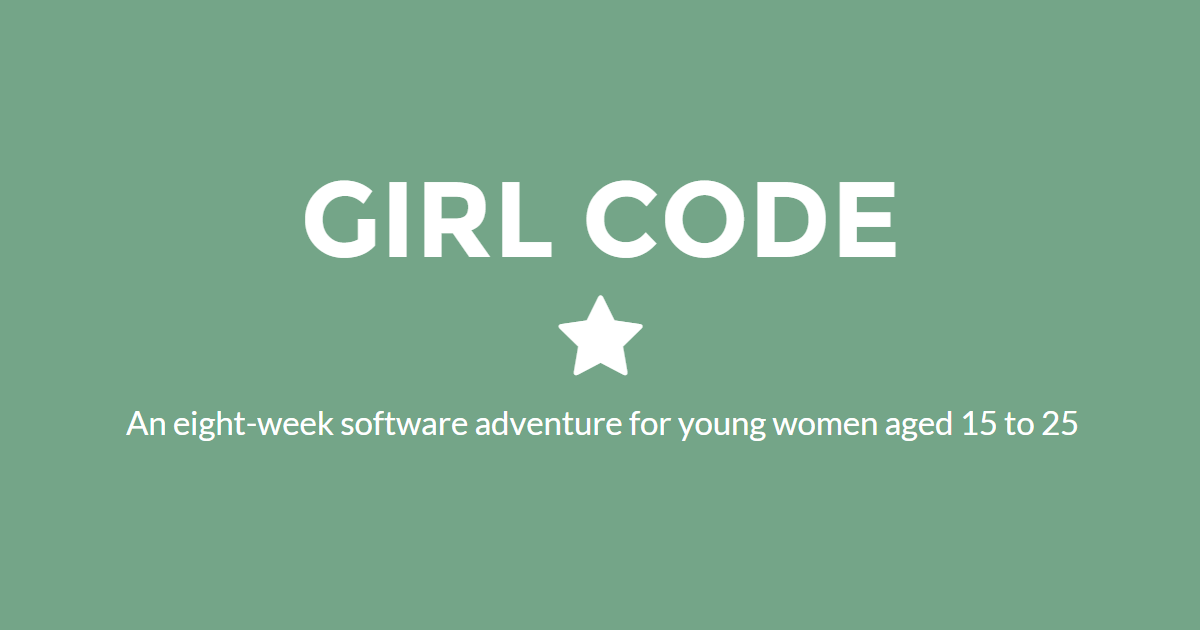
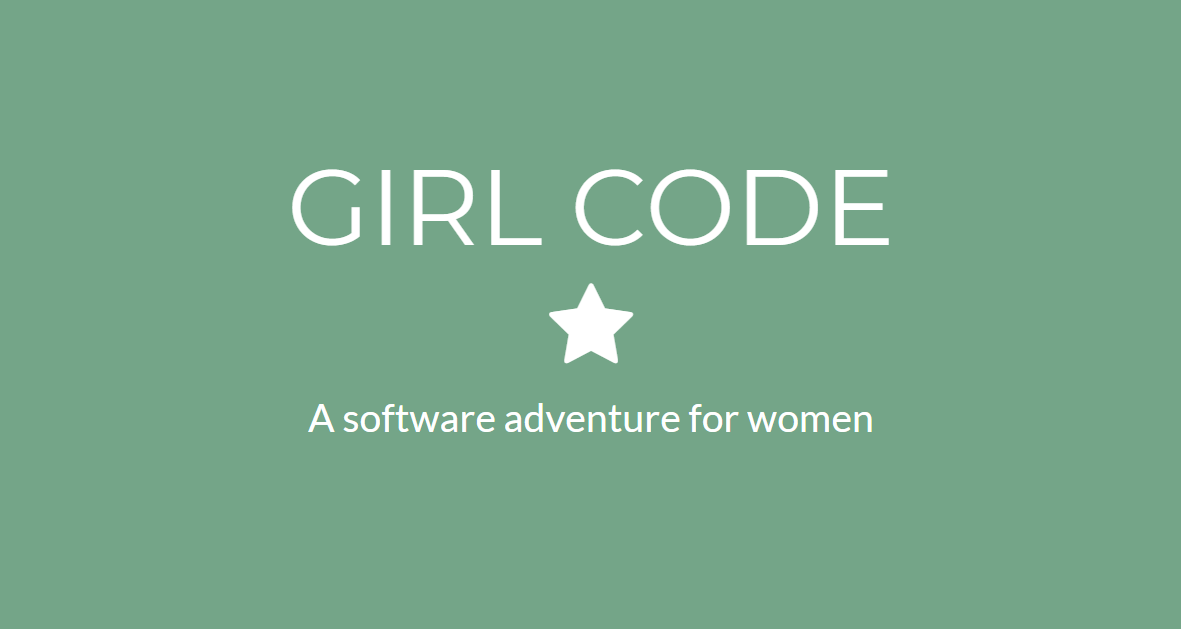
fix facebook image with new age range

diff --git a/index.html b/index.html
@@ -12,7 +12,7 @@
   <meta property="og:title" content="Girl Code">
   <meta property="og:type" content="website">
 
-  <meta property="og:image" content="http://girlcode.co.nz/img/facebook-banner.png?v=1">
+  <meta property="og:image" content="http://girlcode.co.nz/img/facebook-banner.png?v=2">
   <meta property="og:image:width" content="1200">
   <meta property="og:image:height" content="630">
 
